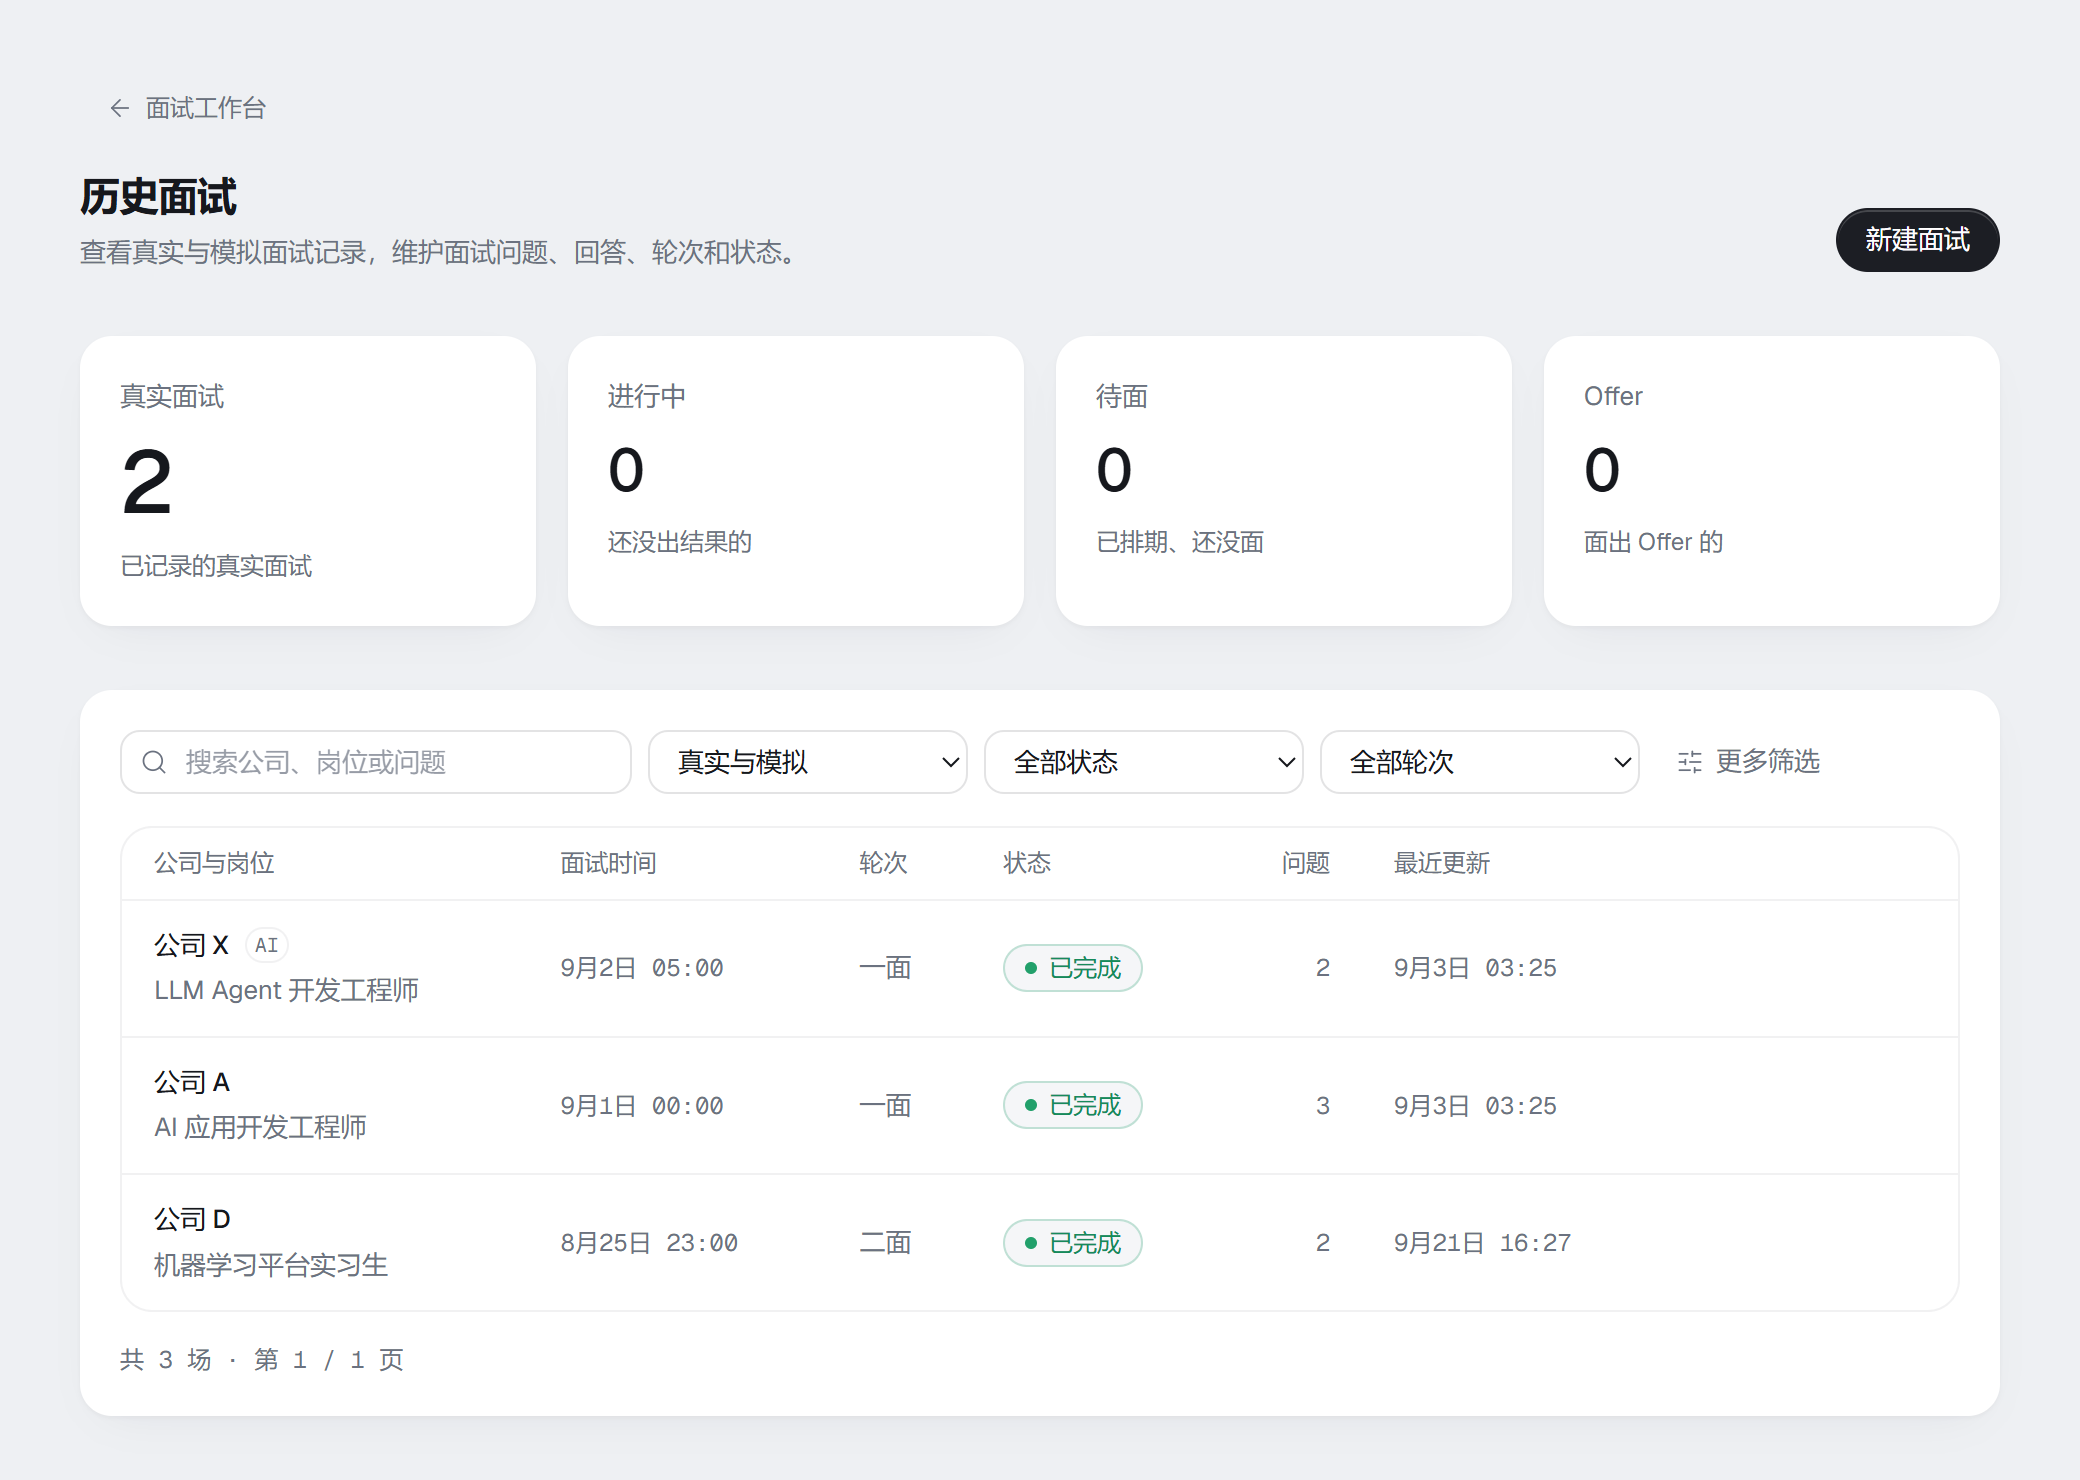
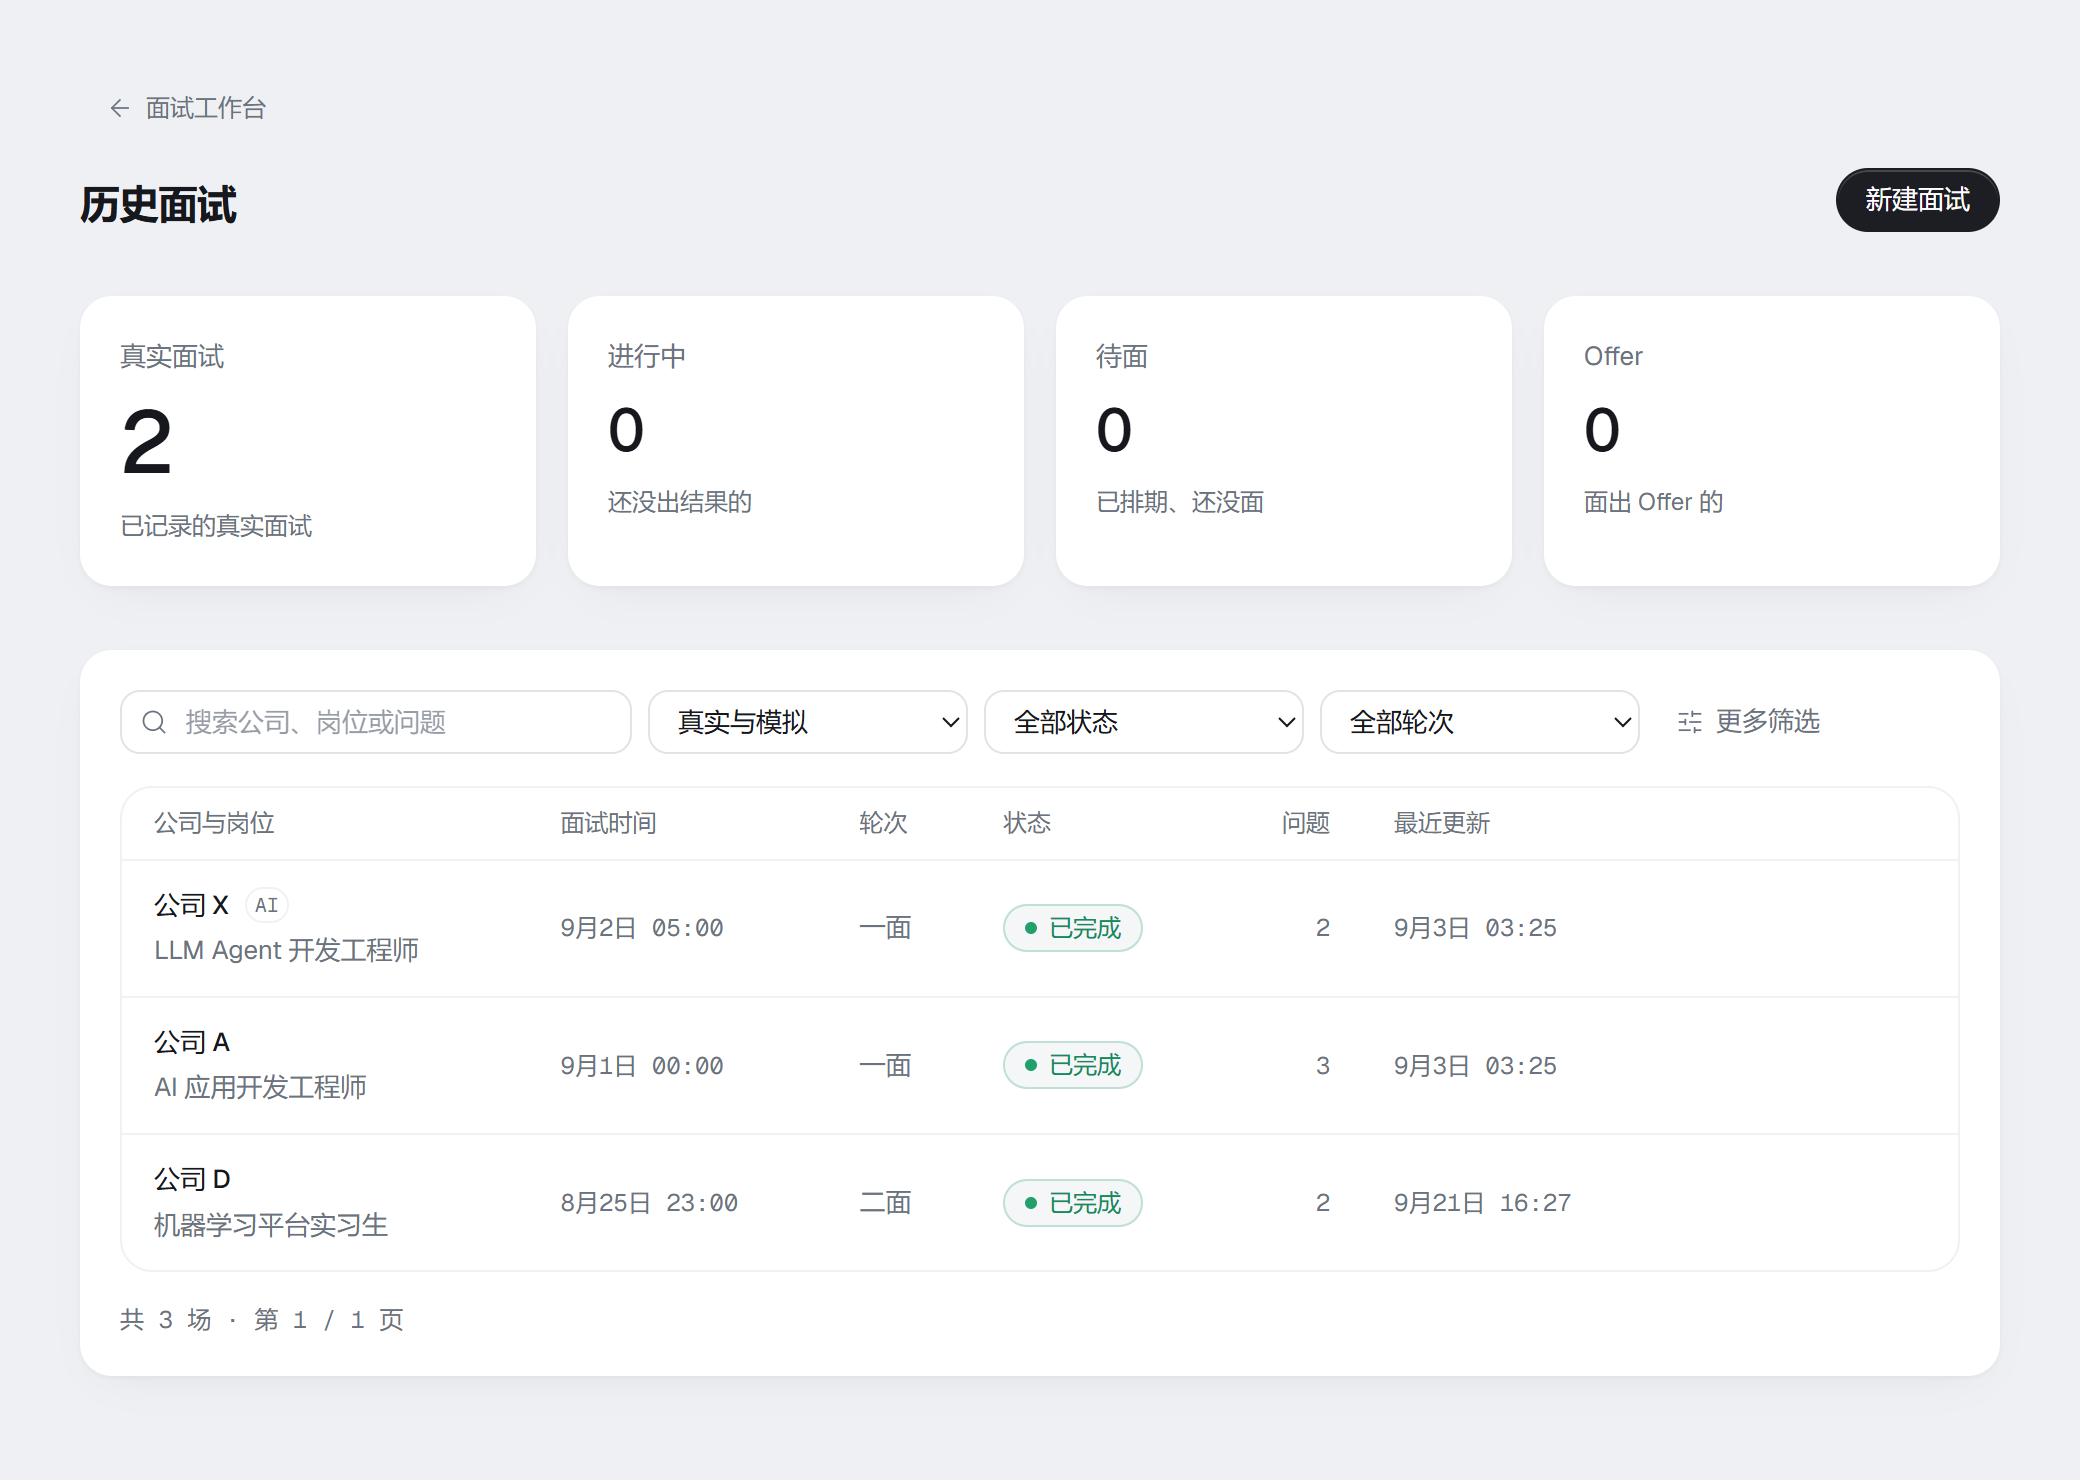
README: notes-based design and dev-v3 numbers; screenshots regenerated after the frontend cleanup
Under the Hood now describes the baseline-only guard, the agent-written notes
file and the dev-v3 bench numbers (0.10 vs 0.53 unverifiable quotes, one
question per turn 76% vs 35%, self-closing 25% -> 53%); the retired 70% -> 37%
ablation and the verbatim-rate claim are gone. Dashboard and applications
screenshots shortened to 1000px now that the next-action card is gone.

diff --git a/README.md b/README.md
@@ -114,12 +114,12 @@ Screenshots use fictional data from a local deployment.
 
 ## Under the Hood
 
-- **One agent loop, guarded by code.** Every interviewer turn first produces a structured move (signal / action / target / facet / why / ledger) and only then the words. Interview state is a pure projection of an append-only event log, so it can be replayed; the code derives the legal moves for the current state and sends violations back for one retry, then decides the move itself. Ablation on 10 paired sessions: removing the guard drops the behaviour pass rate from 70% to 37%.
+- **One agent loop, guarded by code.** Every interviewer turn first produces a structured move (signal / action / target / facet / notes) and only then the words. Interview state is a pure projection of an append-only event log, so it can be replayed. The code guards only a baseline (the candidate wants to stop, ten empty turns, a switch to a material that exists) and sends violations back for one retry, then decides the move itself; how deep to press, when to switch and when to close are the model's call. There is no clock and no turn quota: on the 30-task bench the interviewer closed on its own in 53% of sessions, up from 25% under the old quotas.
 - **Runtime that makes cheap models usable.** Shared `runAgent()` with three tool permission tiers (read / write / confirm), four budgets (steps, tokens, time, cost), a `beforeTool` hook whose failures are fed back as tool results, and a three-stage output contract (schema narrowing → targeted retry with the validation error → caller fallback parsing). Across 1,636 real calls: 78.6% first-try pass, 97.0% usable output after degradation; 8M tokens for $0.46. Prompt layout is designed for prefix caching (stable system prompt, state card last): 84% cache hits. [Runtime](src/lib/ai/run-agent.ts).
 - **Scoring is separate from interviewing.** A different agent, on a different model, scores each segment; it can look up the resume to check numbers, and every quote must be verbatim. Report weaknesses come with a concrete practice, and the report shows the interviewer's own turn-by-turn reasoning.
 - **42 Agent Skills as method books, not question banks.** Two-level, many-to-many packs (base / domain / detail) the interviewer selects from an index and loads on demand. [Explore the packs](src/lib/mock-interviews/skills).
-- **Layered memory.** In-session (state card + the interviewer's evidence ledger), cross-session (a candidate dossier the agent rewrites after each interview), long-term (capability profile).
-- **InterviewBench.** A benchmark that treats any interviewer — a bare model with one prompt, a fixed script, or this system — as a black box: a static layer of 364 items with external ground truth (Beyond the Resumé, real interview write-ups), and an end-to-end layer of 30 real-JD tasks with hidden candidate profiles and planted facts, graded only from the transcript and scorecard. Against a same-model bare-prompt baseline this system's scorecards quote verbatim 0.99 vs 0.96 of the time, with 0.11 vs 0.53 unverifiable quotes per session. [Bench README](eval/bench/README.md).
+- **Layered memory, all written by the agent.** In-session: a four-section markdown notes file (to verify / concluded / doubtful / next) the interviewer rewrites every turn, pre-filled from the resume and the job description, with code guarding only the format. Cross-session: a candidate dossier rewritten after each interview. Long-term: the capability profile. The report's **How the interviewer questioned you** is a projection of the notes.
+- **InterviewBench.** A benchmark that treats any interviewer — a bare model with one prompt, a fixed script, or this system — as a black box: a static layer of 364 items with external ground truth (Beyond the Resumé, real interview write-ups), and an end-to-end layer of 30 real-JD tasks with hidden candidate profiles and planted facts, graded only from the transcript and scorecard. Against a same-model bare-prompt baseline this system's scorecards contain 0.10 vs 0.53 unverifiable quotes per session and ask one question per turn 76% vs 35% of the time; level judgement is not better than the baseline. [Bench README](eval/bench/README.md).
 
 ## Deployment Notes
 

diff --git a/README_CN.md b/README_CN.md
@@ -114,12 +114,12 @@ npm run dev
 
 ## 设计与实现
 
-- **一个 Agent 循环，边界由代码守。** 面试官每回合先产出结构化动作（signal / action / target / facet / why / ledger），再产出话术。面试状态是事件日志的纯函数投影，可重放；代码据此算出当前合法的动作白名单，违约退回重出一次，再违约由代码定动作。10 对配对场次的消融：去掉这层，行为判定通过率从 70% 降到 37%。
+- **一个 Agent 循环，边界由代码守。** 面试官每回合先产出结构化动作（signal / action / target / facet / notes），再产出话术。面试状态是事件日志的纯函数投影，可重放。代码只守底线（候选人要结束、连续十句没信息、切到不存在的材料），违约退回重出一次，再违约由代码定动作；追多深、何时换题、何时收尾都由模型定。没有时钟也没有回合配额：30 任务的基准上面试官自己收尾的场次从旧配额下的 25% 升到 53%。
 - **让低价模型可用的运行时。** 统一的 `runAgent()`：工具三级权限（read / write / confirm）、四类预算（步数、token、时长、成本）、`beforeTool` 钩子（校验失败作为工具结果回传）、输出契约三级降级（schema 收敛 → 携校验错误定向重试 → 调用方兜底解析）。1636 次真实调用：一次通过 78.6%，降级后可用产出 97.0%；800 万 token 共 $0.46。消息布局按前缀缓存设计（系统提示词整场不变、状态卡置末），缓存命中 84%。[运行时](src/lib/ai/run-agent.ts)。
 - **评分与面试分离。** 另一个 Agent、另一个模型逐段评分，能查简历原文核对数字，引用必须逐字；每条短板配一个具体练法，报告里给出面试官逐回合的思路。
 - **42 个 Agent Skills 方法书，不是题库。** 两级多对多（基座 / 领域 / 细节），面试官看索引自选、按需加载。[查看技能包](src/lib/mock-interviews/skills)。
-- **记忆分层。** 场内（状态卡 + 面试官的证据账）、跨场（每场后由 Agent 整份重写的候选人档案）、长期（能力画像）。
-- **InterviewBench。** 把任何面试官——一句提示词的裸模型、固定题本、本系统——当作黑盒来评的基准：静态层 364 题，真值来自外部（Beyond the Resumé、真实面经）；端到端层 30 个真实 JD 任务，候选人档案与埋点对面试官隐藏，只从逐字稿和评分卡打分。对同模型裸提示词基线，本系统评分卡的依据逐字率 0.99 对 0.96，每场引用不实 0.11 对 0.53。[基准说明](eval/bench/README.md)。
+- **记忆分层，都由 Agent 自己写。** 场内：面试官每回合整份重写的四段 Markdown 笔记（待验证 / 已有结论 / 存疑 / 接下来），开场按简历与岗位描述预填，代码只守格式；跨场：每场后整份重写的候选人档案；长期：能力画像。报告里的**面试官是怎么问你的**就是笔记的投影。
+- **InterviewBench。** 把任何面试官——一句提示词的裸模型、固定题本、本系统——当作黑盒来评的基准：静态层 364 题，真值来自外部（Beyond the Resumé、真实面经）；端到端层 30 个真实 JD 任务，候选人档案与埋点对面试官隐藏，只从逐字稿和评分卡打分。对同模型裸提示词基线，本系统评分卡每场引用不实 0.10 对 0.53，一句只问一个问题的比例 76% 对 35%；等级判断不优于基线。[基准说明](eval/bench/README.md)。
 
 ## 部署说明
 
